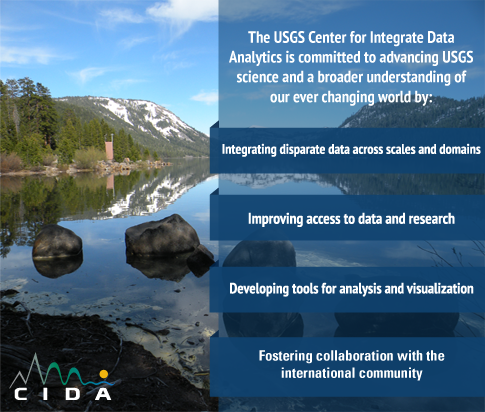
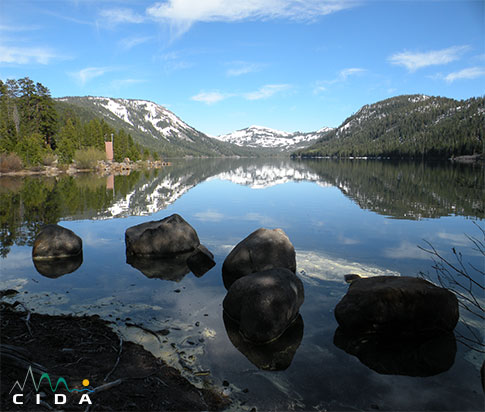
mission statement revamp and missing pics

diff --git a/css/index.css b/css/index.css
@@ -34,6 +34,8 @@ ul#responsive{display:none;}
 #mobile_newsfeed{display:none;}
 
 #mission img#large{display:none;}
+
+
 		
 @media (min-width:1200px){
 	
@@ -62,8 +64,34 @@ ul#responsive{display:none;}
 		height:412px;
 		float:left;
 		margin-right:10px;
-		margin-bottom:10px;			
+		margin-bottom:10px;	
+		position:relative;		
 					}
+					
+#mission_area{background:rgba(15,65,111,.6);
+				width:290px;
+				height:100%;
+				position:absolute;
+				right:0;}
+				
+#mission_area h1{color:#fff;
+					font-family:"PT Sans Narrow";
+					font-size:1.2em;
+					padding-top:10px;
+					padding-right:5px;
+					padding-left:5px;
+					margin-bottom:20px;}
+					
+#mission_area p{color:#fff;
+				font-family:"PT Sans Narrow";
+				font-size:.95em;
+				margin-bottom:43px;
+				position:relative;
+				z-index:3000;}
+				
+#ribbon{position:absolute;
+					right:0;
+					top:110px;}
 					
 #newsfeed{
 		width:397px;
@@ -199,11 +227,35 @@ ul#responsive{display:none;}
 		float:left;
 		margin-right:10px;
 		margin-bottom:10px;
-					
+		position:relative;		
 					}
 					
-#mission img{width:100%;
-				height:100%;}
+#mission_area{background:rgba(15,65,111,.6);
+				width:290px;
+				height:100%;
+				position:absolute;
+				right:0;}
+				
+#mission_area h1{color:#fff;
+					font-family:"PT Sans Narrow";
+					font-size:1.2em;
+					padding-top:10px;
+					padding-right:5px;
+					padding-left:5px;
+					margin-bottom:20px;}
+					
+#mission_area p{color:#fff;
+				font-family:"PT Sans Narrow";
+				font-size:.95em;
+				margin-bottom:43px;
+				position:relative;
+				z-index:3000;}
+				
+#ribbon{position:absolute;
+					right:0;
+					top:110px;}
+					
+
 					
 #newsfeed{
 		width:310px;
@@ -337,10 +389,37 @@ ul#responsive{display:none;}
 		height:412px;
 		float:left;
 		margin-right:10px;
-		margin-bottom:10px;		
+		margin-bottom:10px;	
+		position:relative;	
 					}
 					
-#mission img{width:100%;
+#mission_area{background:rgba(15,65,111,.6);
+				width:290px;
+				height:100%;
+				position:absolute;
+				right:0;}
+				
+#mission_area h1{color:#fff;
+					font-family:"PT Sans Narrow";
+					font-size:1.2em;
+					padding-top:10px;
+					padding-right:5px;
+					padding-left:5px;
+					margin-bottom:20px;}
+					
+#mission_area p{color:#fff;
+				font-family:"PT Sans Narrow";
+				font-size:.95em;
+				margin-bottom:43px;
+				position:relative;
+				z-index:3000;}
+				
+#ribbon{position:absolute;
+		right:0;
+		top:110px;
+		}
+					
+#mission img#main{width:100%;
 				height:100%;}
 					
 #newsfeed{
@@ -476,8 +555,35 @@ ul#responsive{display:none;}
 		height:412px;
 		float:left;
 		margin-right:10px;
-		margin-bottom:10px;			
+		margin-bottom:10px;	
+		position:relative;		
 					}
+					
+#mission_area{background:rgba(15,65,111,.6);
+				width:290px;
+				height:100%;
+				position:absolute;
+				right:0;}
+				
+#mission_area h1{color:#fff;
+					font-family:"PT Sans Narrow";
+					font-size:1.2em;
+					padding-top:10px;
+					padding-right:5px;
+					padding-left:5px;
+					margin-bottom:20px;}
+					
+#mission_area p{color:#fff;
+				font-family:"PT Sans Narrow";
+				font-size:.95em;
+				margin-bottom:43px;
+				position:relative;
+				z-index:3000;}
+				
+#ribbon{position:absolute;
+		right:0;
+		top:110px;
+		}
 					
 #small{display:block;}
 					
@@ -614,14 +720,43 @@ ul#responsive{display:none;}
 		height:412px;
 		float:left;
 		margin-right:10px;
-		margin-bottom:10px;		
+		margin-bottom:10px;	
+		position:relative;	
 					}
+					
+#mission_area{background:rgba(15,65,111,.6);
+				width:290px;
+				height:100%;
+				position:absolute;
+				right:0;}
+				
+#mission_area h1{color:#fff;
+					font-family:"PT Sans Narrow";
+					font-size:1.2em;
+					padding-top:10px;
+					padding-right:5px;
+					padding-left:5px;
+					margin-bottom:20px;}
+					
+#mission_area p{color:#fff;
+				font-family:"PT Sans Narrow";
+				font-size:.95em;
+				margin-bottom:43px;
+				position:relative;
+				z-index:3000;}
+				
+#ribbon{position:absolute;
+		right:0;
+		top:110px;
+		}
+					
+
 					
 #small{display:block;}
 					
 #main{display:none;}
 					
-#mission img{width:100%;
+#mission img#small{width:100%;
 				height:100%;}
 					
 #newsfeed{
@@ -757,6 +892,10 @@ nav{display:none;}
 
 #mobile_newsfeed{display:block;}
 
+#mission_area{display:none;}
+
+#ribbon{display:none;}
+
 
 
 /*###################content_start################*/			
@@ -782,7 +921,7 @@ nav{display:none;}
 			}
 			
 #mission ul{display:block;
-				text-align:center;
+				text-align:left;
 				padding:10px 40px;
 				font-family:"PT Sans Narrow";
 				font-size:1.7em;
@@ -906,6 +1045,11 @@ nav{display:none;}
 
 #mobile_newsfeed{display:block;}
 
+#mission_area{display:none;}
+
+#ribbon{display:none;}
+
+
 
 			
 /*###################content_start################*/			
@@ -931,7 +1075,7 @@ nav{display:none;}
 			}
 			
 #mission ul{display:block;
-				text-align:center;
+				text-align:left;
 				padding:10px 40px;
 				font-family:"PT Sans Narrow";
 				font-size:1.4em;
@@ -1056,6 +1200,9 @@ nav{display:none;}
 
 #mobile_newsfeed{display:block;}
 
+#mission_area{display:none;}
+
+#ribbon{display:none;}
 
 			
 /*###################content_start################*/
@@ -1080,7 +1227,7 @@ nav{display:none;}
 			}
 			
 #mission ul{display:block;
-				text-align:center;
+				text-align:left;
 				padding:10px 30px;
 				font-family:"PT Sans Narrow";
 				font-size:1.1em;
@@ -1207,6 +1354,9 @@ nav{display:none;}
 
 #mobile_newsfeed{display:block;}
 
+#mission_area{display:none;}
+
+#ribbon{display:none;}
 
 			
 			
@@ -1358,6 +1508,9 @@ nav{display:none;}
 
 #mobile_newsfeed{display:block;}
 
+#mission_area{display:none;}
+
+#ribbon{display:none;}
 
 
 /*###################content_start################*/			

diff --git a/index.html b/index.html
@@ -112,8 +112,26 @@
 
 
     <div id="mission">
-    	<img  id="large" src="images/missionstatement_large.png"/>
-    	<img id="main" src="images/missionstatement.jpg"/>
+    
+    	<div id="mission_area">
+        
+        	<h1>The USGS Center for Integrated Data Analytics is committed to advancing USGS science and a broader understanding of our ever changing world by:</h1>
+            <p>Integrating disparate data across scales and domains</p>
+            
+            <p>Improving access to data and research</p>
+            
+            <p>Developing tools for analysis and visualization</p>
+            
+            <p>Fostering collaboration in order to enable a new era of scientific investigation.</p>
+            
+        </div>
+        
+       <img id="ribbon" src="images/mission_ribbons.png" alt="mission ribbons"/>
+       
+       <img  id="large" src="images/missionstatement_large.png" alt="mission_pic_large"/>
+        
+    	<img id="main" src="images/missionstatement.jpg" alt="medium mission pic"/>
+        
     	<img id="small" src="images/missionstatementsmall.jpg"/>
         
         <p id="mobileheadline">The USGS Center for Integrated Data Analytics is committed to advancing USGS science by:</p>
@@ -129,6 +147,7 @@
         
         </ul>
 
+        
     </div><!--mission-->
     
 	<div id="newsfeed">
